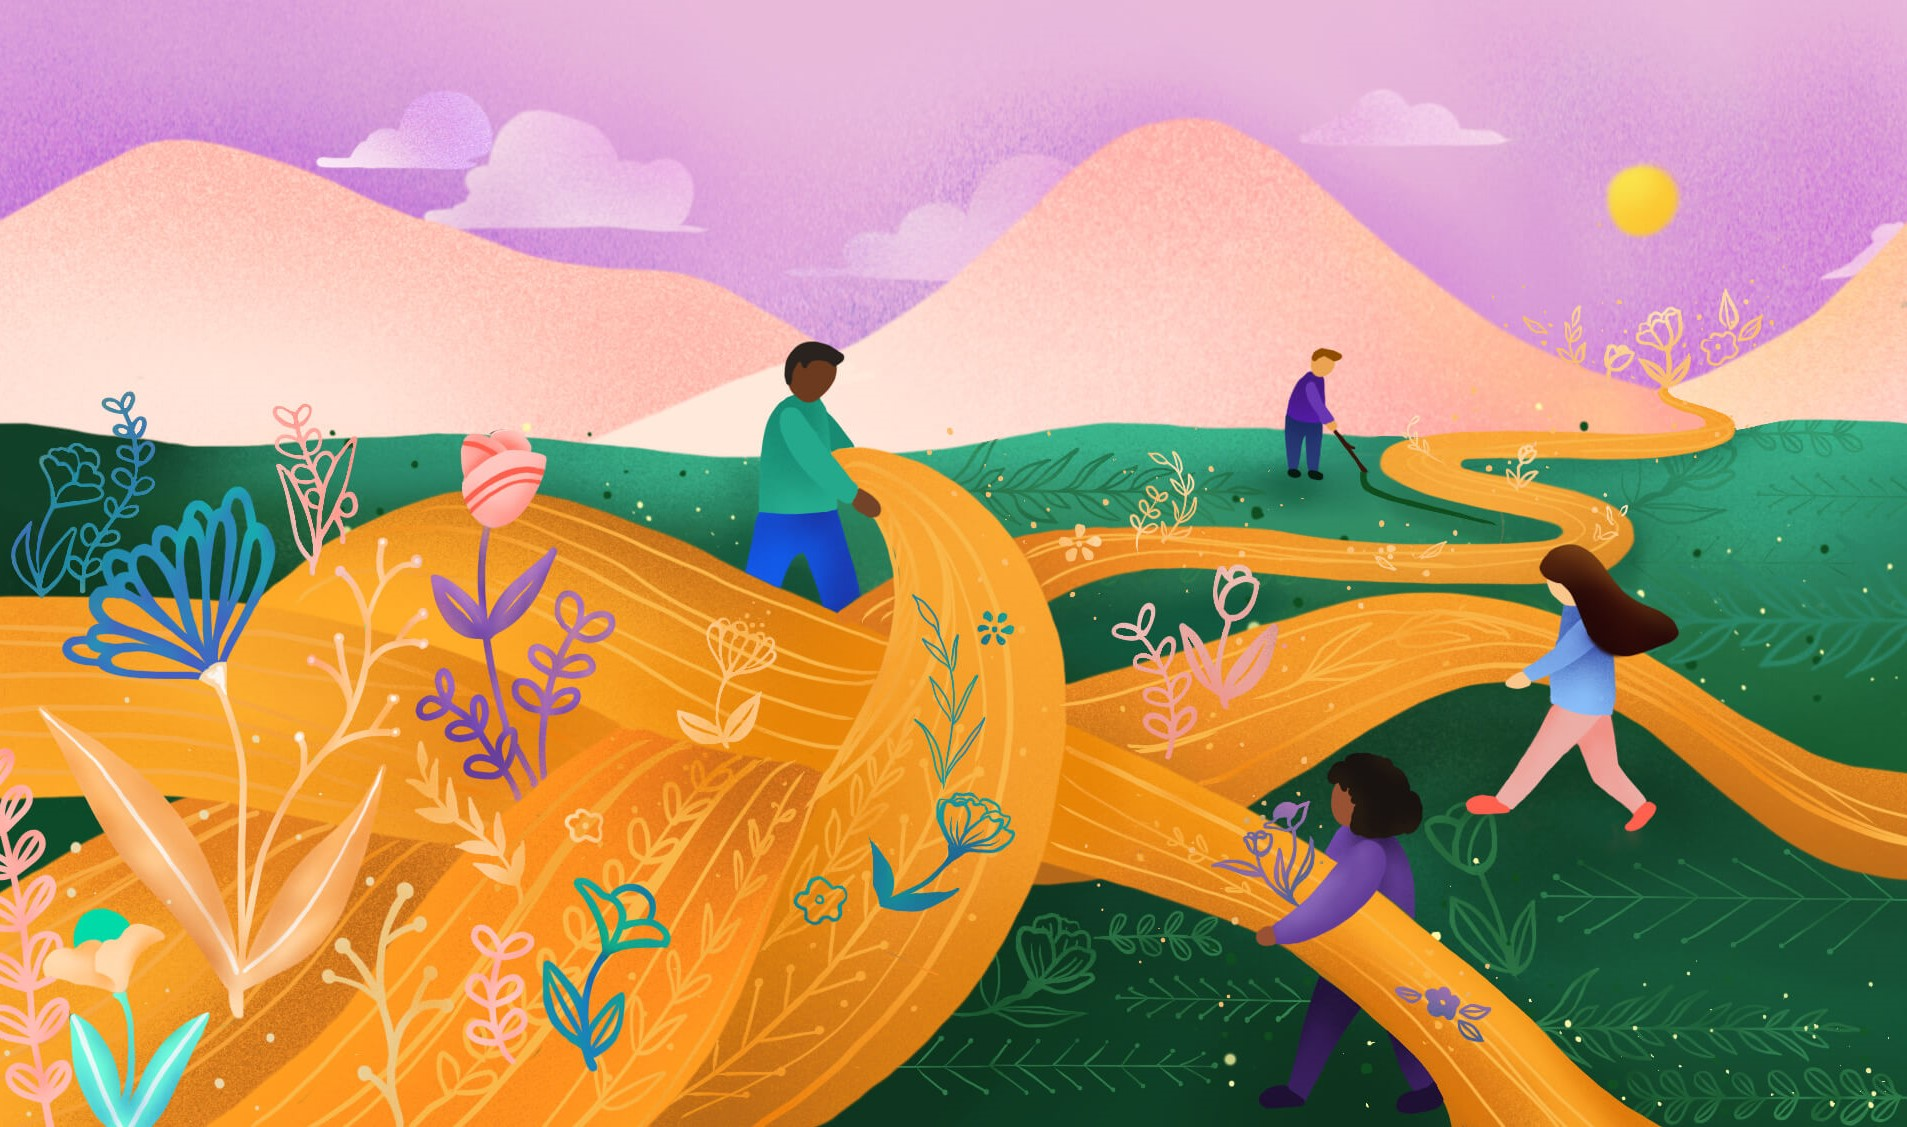
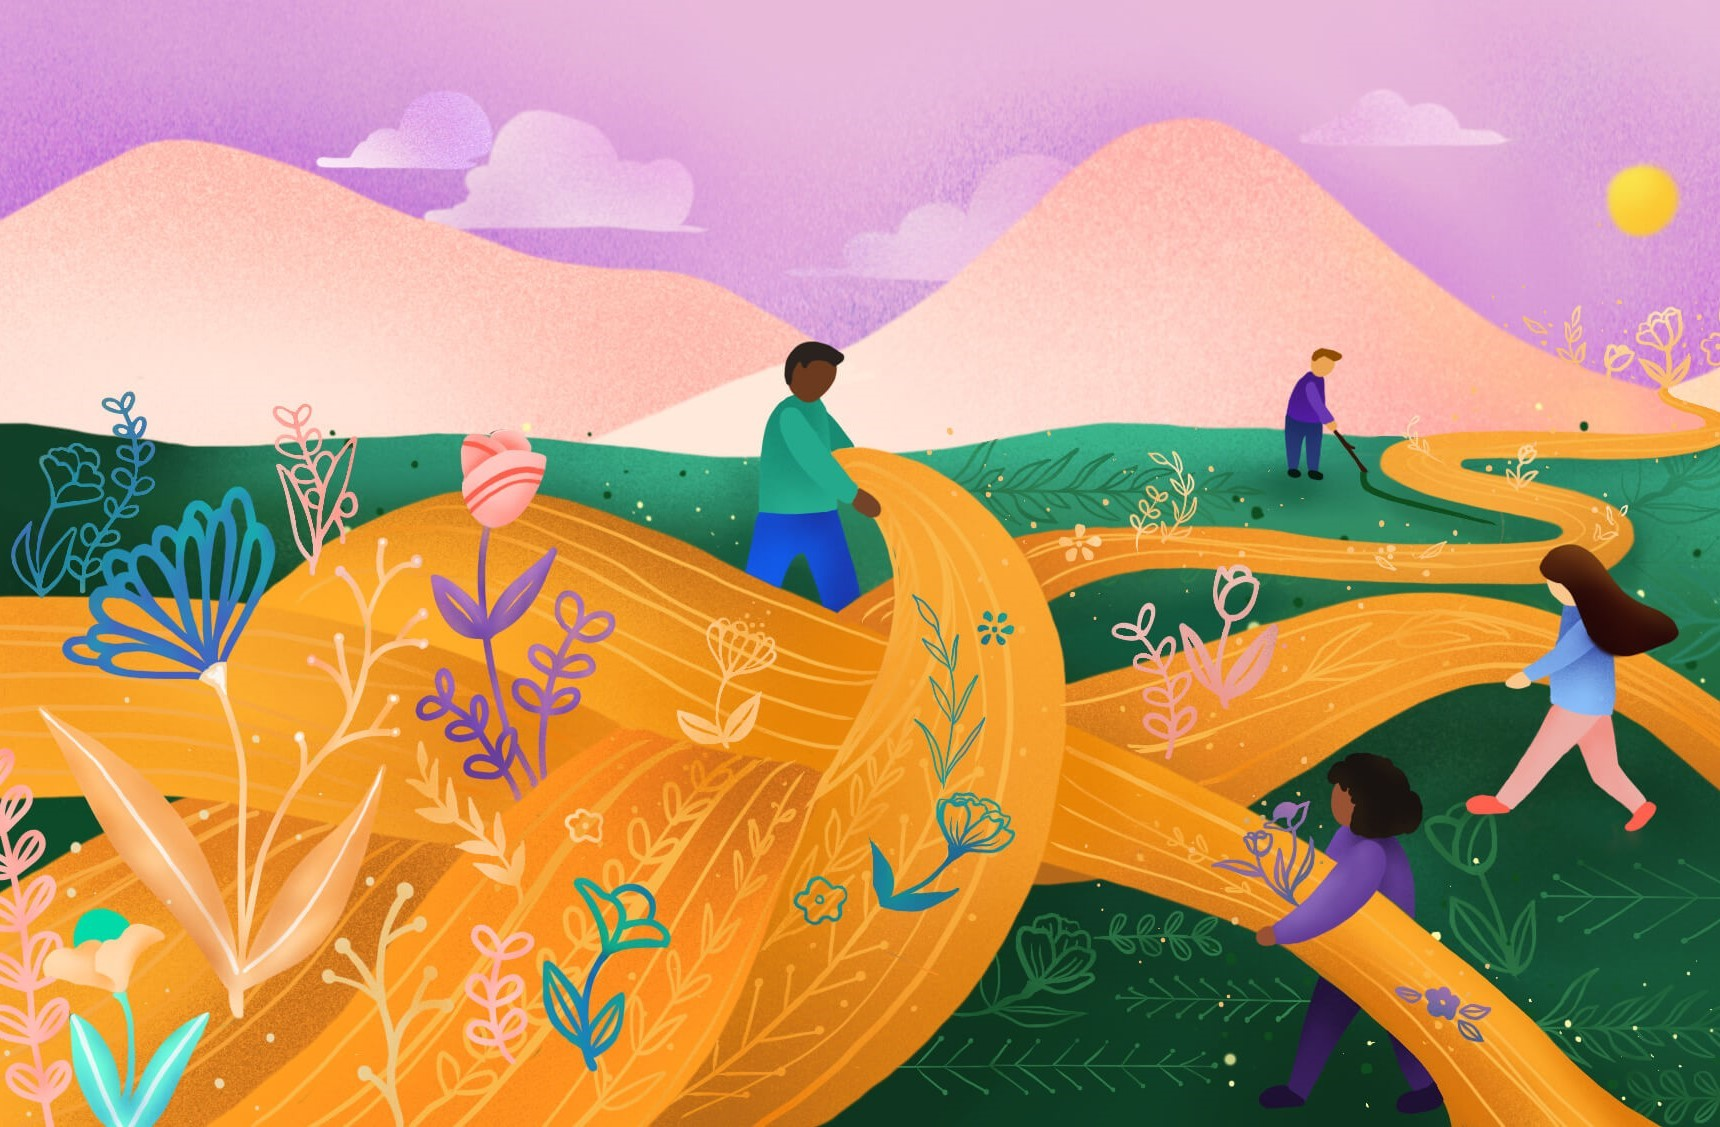
final homepage fix and final stepping stone review

diff --git a/styles/HStyle.css b/styles/HStyle.css
@@ -19,10 +19,15 @@ nav a{
     color: #555555;
 }
 
+.header{
+    max-width: 100%;
+    overflow-x: hidden;
+}
+
 .title{
     margin-left: 5vw;
     z-index: 1;
-    max-width: 100%;
+    max-width: 95%;
     overflow-x: hidden;
 }
 
@@ -30,7 +35,7 @@ nav a{
     position: relative;
     font-weight: 500;
     color: #FF604E;
-    margin-top: 7vw;
+    margin-top: 8vw;
     margin-bottom: 6vw;
     text-align: left;
     width: 60%;
@@ -42,7 +47,7 @@ nav a{
     font-size: 2.6vw;
     font-weight: 900;
     color: rgb(182, 144, 121);
-    margin-top: 8vw;
+    margin-top: 9vw;
     margin-bottom: 7vh;
     text-align: left;
     line-height: 1.4;
@@ -61,27 +66,27 @@ nav a{
     */
     width: 33vw;
     height: 46vw;
-    top: 15vw;
+    top: 16vw;
     left: 13vw;
     z-index: 1;
 }
 
 .homepage_revised{
     position: absolute;
-    width: 70vw;
+    width: 61.5vw;
     height: 40vw;
-    top: 9vw;
-    right:-7vw;
+    top: 10vw;
+    right: 0vw;
     z-index: 2;
-    overflow-x: hidden;
+
 }
 
 .homepage_lea{
     position: absolute;
-    width: 32vw;
+    width: 31.5vw;
     height: 2.5vw;
     top: 53vw;
-    right:-2vw;
+    right: 0vw;
     z-index: 5;
 }
 
@@ -294,7 +299,7 @@ ul li:before {
     padding: 5vw 5vw;
     background-color: white;
     position: relative;
-    overflow: hidden;
+    /*overflow: hidden;*/
 }
 
 

diff --git a/index.html b/index.html
@@ -25,9 +25,9 @@
             </div>
 
             <div class="title">
-                <img class= "leaf_tan" src="assets/Homepage/homepage-large-logo.png">
-                <img class= "homepage_revised" src="assets/Homepage/cfcl_homepage_revised.jpg">
-                <img class= "homepage_lea" src="assets/Homepage/CFCL_roundleaforange.png">
+                <img class="leaf_tan" src="assets/Homepage/homepage-large-logo.png">
+                <img class="homepage_revised" src="assets/Homepage/cfcl_homepage_revised.jpg">
+                <img class="homepage_lea" src="assets/Homepage/CFCL_roundleaforange.png">
                 <h1>Braiding wisdom across generations</h1>
                 <h2>We believe youth are a transformative force in society.</h2>
             </div>

diff --git a/styles/StoneStyles/ss2.css b/styles/StoneStyles/ss2.css
@@ -136,7 +136,7 @@ h4{
     width: 45vw;
     display: flex;
     flex-wrap: wrap;
-    top: 43vw;
+    top: 40vw;
     left: 10vw;
 }
 
